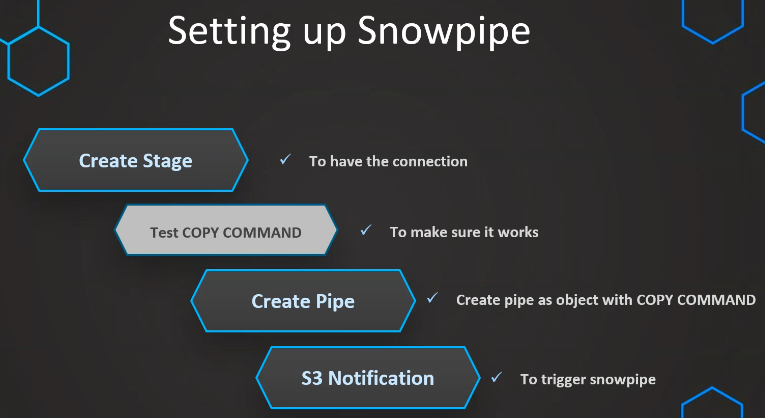
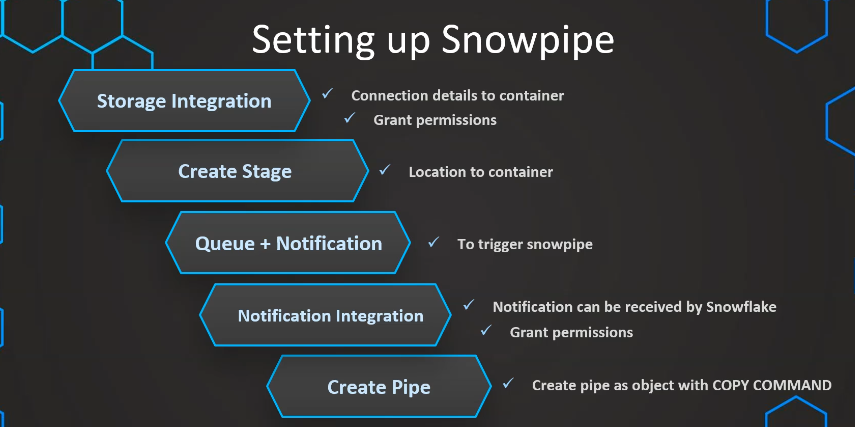
first commit

diff --git a/README.md b/README.md
@@ -1,244 +1,152 @@
-# Setting up Snowpipe with AWS
+# Setting up Snowpipe with Azure
+![alt text](image.png)
+![alt text](image-1.png)
 
 ## Overview
-This document provides a step-by-step guide on how to set up Snowpipe in Snowflake using AWS S3 for continuous data loading. Snowpipe automatically loads data as soon as files appear in the S3 bucket, ideal for scenarios where data must be immediately available for analysis. This guide covers creating stages, testing with COPY commands, creating the pipe, and setting up S3 notifications.
+This document provides a step-by-step guide on how to set up Snowpipe in Snowflake using Azure Blob Storage for continuous data loading. Snowpipe automatically loads data as soon as files appear in the Azure container, ideal for scenarios where data must be immediately available for analysis. This guide covers creating storage accounts, setting up containers, collecting necessary Azure information, configuring Snowflake integration, and granting permissions.
 
 ## Index
-- [What is Snowpipe?](#what-is-snowpipe)
-- [Step 1: Creating the Storage Integration](#step-1-creating-the-storage-integration)
-- [Step 2: Creating Table and File Format](#step-2-creating-table-and-file-format)
-- [Step 3: Creating Stage](#step-3-creating-stage)
-- [Step 4: Creating Pipe](#step-4-creating-pipe)
-- [Step 5: Setting up S3 Event Notification](#step-5-setting-up-s3-event-notification)
-- [Step 6: Testing and Error Handling](#step-6-testing-and-error-handling)
-- [Step 7: Managing Pipes](#step-7-managing-pipes)
+- [Prerequisites](#prerequisites)
+- [Step 1: Creating a Storage Account](#step-1-creating-a-storage-account)
+- [Step 2: Creating and Uploading to Containers](#step-2-creating-and-uploading-to-containers)
+- [Step 3: Collecting Required Azure Information](#step-3-collecting-required-azure-information)
+- [Step 4: Creating Snowflake Integration](#step-4-creating-snowflake-integration)
+- [Step 5: Granting Permissions in Azure](#step-5-granting-permissions-in-azure)
 - [Conclusion](#conclusion)
 
 ---
 
-## What is Snowpipe?
-Snowpipe is a continuous data loading feature in Snowflake that automatically loads files as they appear in an S3 bucket. It is designed for real-time data ingestion and is not intended for batch processing. Snowpipe uses event notifications from S3 to trigger data loading into Snowflake tables.
-
-![alt text](image.png)
-
-![alt text](image-1.png)
+## Prerequisites
+Ensure you have an **Azure account**.
 
 ---
 
-## Step 1: Creating the Storage Integration
+## Step 1: Creating a Storage Account
+1. In the **Search Bar**, type **Storage Account** and select the **+ Create** button.
+2. Enter the following details:
+    - **Resource Group**: Use an existing one or create a new one (e.g., `snowflake`).
+    - **Storage Account Name**: Choose a unique name (e.g., `snowflakeawsgcp`).
+    - **Region**: Select the same region as your Snowflake account.
+    - **Redundancy**: Choose **Locally Redundant Storage (LRS)** for testing purposes.
+3. Click **Review + Create**, verify the details, and select **Create**.
+
+At this point, your Azure Storage Account is successfully created.
+
+---
+
+## Step 2: Creating and Uploading to Containers
+1. Go to **Storage Accounts** and select your newly created storage account.
+2. Navigate to **Data Storage** → **Containers**.
+3. Click **+ Container** and create one container for Snowpipe:
+    - **snowpipecsv** for CSV files
+4. After creation, select the container and click **+ Upload**.
+5. Click **Browse File**, select the files to upload, and click **Upload**.
+
+Your data is now stored and ready for integration with Snowflake.
+
+---
+
+## Step 3: Collecting Required Azure Information
+Before integrating with Snowflake, collect the following details from Azure:
+1. **Tenant ID**:
+    - Search for **Tenant Properties** in the Azure search bar.
+    - Copy the **Tenant ID** from the **Tenant Properties** page.
+2. **Storage Account Name** (e.g., `snowflakeawsgcp`).
+3. **Container Name** (`snowpipecsv`).
+
+---
+
+## Step 4: Creating Snowflake Integration
 ```sql
-CREATE OR REPLACE STORAGE INTEGRATION s3_int
+CREATE OR REPLACE DATABASE SNOWPIPE;
+
+CREATE OR REPLACE STORAGE INTEGRATION azure_snowpipe_integration
   TYPE = EXTERNAL_STAGE
-  STORAGE_PROVIDER = S3
+  STORAGE_PROVIDER = AZURE
   ENABLED = TRUE
-  STORAGE_AWS_ROLE_ARN = 'arn:aws:iam::110991281769:role/snowflake-access-role'
-  STORAGE_ALLOWED_LOCATIONS = ('s3://snowflakeaws1985/csv/', 's3://snowflakeaws1985/json/', 's3://snowflakeaws1985/snowpipe/')
-  COMMENT = 'This an optional comment';
+  AZURE_TENANT_ID = 'dae2c9e3-5d25-4628-a32f-6077ffaede10'
+  STORAGE_ALLOWED_LOCATIONS = ('azure://snowflakeawsgcp.blob.core.windows.net/snowpipecsv');
 ```
-## Describe  in case you havent configure your role
+-- -- Describe integration object to provide access
 ```sql
-DESC INTEGRATION s3_int;
+DESC STORAGE INTEGRATION azure_snowpipe_integration;
 ```
+
+### Granting Access
+- In the Snowflake description output, look for `AZURE_CONSENT_URL`.
+- Copy the **AZURE_CONSENT_URL** and paste it into a new browser window where you are logged into your Azure account to grant authorization.
+- After granting permission, you will receive an **Application ID**. Copy and save this ID for later use.
 
 ---
 
-## Step 2: Creating Table and File Format
-```sql
-CREATE OR REPLACE TABLE OUR_FIRST_DB.PUBLIC.employees (
-  id INT,
-  first_name STRING,
-  last_name STRING,
-  email STRING,
-  location STRING,
-  department STRING);
-```  
-```sql
-CREATE OR REPLACE FILE FORMAT MANAGE_DB.file_formats.csv_fileformat
-  TYPE = CSV
-  FIELD_DELIMITER = ','
-  SKIP_HEADER = 1
-  NULL_IF = ('NULL','null')
-  EMPTY_FIELD_AS_NULL = TRUE;
-```
+## Step 5: Granting Permissions in Azure
+1. Go to **Storage Account** → **Your Container** → **Access Control (IAM)**.
+2. Click on the **+ Add** icon → **Add role assignment**.
+3. In the **Search Bar**, type **Storage Blob Data Reader** and select it.
+4. Click **Next**.
+5. Click on **+ Select Members**.
+6. In the **Search Bar** on the right-side pop-up window, paste the **Application ID** copied from the Azure consent step.
+7. Select the application and click **Continue**.
+
+Permissions are now successfully granted to Snowflake.
+
 
 ---
 
-## Step 3: Creating Stage
-```sql
-CREATE OR REPLACE STAGE MANAGE_DB.external_stages.csv_folder
-  URL = 's3://snowflakeaws1985/csv/snowpipe'
-  STORAGE_INTEGRATION = s3_int
-  FILE_FORMAT = MANAGE_DB.file_formats.csv_fileformat;
+## After Successful Connection: Setting up Queue and Notifications
 
-LIST @MANAGE_DB.external_stages.csv_folder;
-```
+To fully set up Snowpipe, you need to complete two additional steps:
+- **Queue Setup**
+- **Notifications**
 
 ---
 
-## Step 4: Creating Pipe & schema to keep things organized
-
--- Create schema to keep things organized
-```sql
-CREATE OR REPLACE SCHEMA MANAGE_DB.pipes;
-```
-
--- Define pipe// at this stage you should test before creating the pipe to check if everyting work perfectly copy into == select
-```sql
-CREATE OR REPLACE PIPE MANAGE_DB.pipes.employee_pipe
-AUTO_INGEST = TRUE
-AS
-COPY INTO OUR_FIRST_DB.PUBLIC.employees
-FROM @MANAGE_DB.external_stages.csv_folder;
-```  
--- Describe pipe copy the value of notification_channel after this go into step 5 
-```sql
-DESC pipe employee_pipe;
-DESC PIPE MANAGE_DB.pipes.employee_pipe;
-```
--- 
-```sql
-SELECT COUNT(*) FROM OUR_FIRST_DB.PUBLIC.employees;
-```
+## Step 6: Setting up Queue in Azure
+1. Go to **Storage Account** → **Your Container** → **Data Storage** → **Queue**.
+2. Click on the **+ Queue** icon.
+3. **Queue Name**: Enter a unique name and click **OK**.
 
 ---
 
-## Step 5: Setting up S3 Event Notification
-1. Go to **AWS Console** → **S3** → **Bucket** → **Properties**.
-2. Scroll to **Event Notifications** and click **Create Event Notification**.
-3. **Event Name**: Unique-name
-4. **Prefix**: `csv/snowpipe`
-5. **Suffix**: (Optional)
-6. **Event Type**: Select **All Object Create Events**
-7. **Destination**: Select **SQS queue**
-8. **Enter SQS queue ARN**: Paste the value from Snowflake's Notification Channel
-9. Click **Save**.
+## Step 7: Configuring Event Notifications
+1. In the left-hand side menu, look for **Events** (with a yellow lightning bolt icon) and select it.
+2. Click on **+ Event Subscription**.
+3. Enter the following details:
+    - **Name**: Unique name for the event
+    - **Event Schema**: Leave as default
+    - **System Topic**: Same as the name
+    - **Filter Events Type**: Select **Only Blob Created**
+    - **End Point Type**: Choose **Storage Queue**
+4. Click **Configure End Point**.
+5. In the right-side pop-up window:
+    - **Storage Account**: Select your storage account
+    - **Queue**: Select the queue previously created
+6. Click **OK**.
+
+**Note:** You may encounter an error, but don't worry. Continue with the following steps.
 
 ---
 
-## Step 6: Testing and Error Handling
+## Step 8: Registering Event Grid in Azure
+1. Copy your Azure URL and paste it into a new browser window:  
+   `https://portal.azure.com/?quickstart=true#home`
+2. In the **Search Bar**, type **Subscription** and select your subscription.
+3. In **Settings**, go to **Resource Providers**.
+4. In the **Search Bar**, type **Event**.
+5. Select **Microsoft.EventGrid**.
+6. In the upper left-hand side, click **Register**.
 
--- Create file format object field_delimiter = '|' TO CREATE AND  ERROR IN DATA 3
-
-```sql
-CREATE OR REPLACE file format MANAGE_DB.file_formats.csv_fileformat
-    type = csv
-    field_delimiter = ','
-    skip_header = 1
-    null_if = ('NULL','null')
-    empty_field_as_null = TRUE;
-``` 
-```sql   
-SELECT COUNT(*) FROM OUR_FIRST_DB.PUBLIC.employees ; 
-``` 
-```sql
-ALTER PIPE employee_pipe refresh;
-```
-
--- Validate pipe is actually working
-```sql
-SELECT SYSTEM$PIPE_STATUS('MANAGE_DB.pipes.employee_pipe');
-```
--- Snowpipe error message
-```sql
-SELECT * FROM TABLE(VALIDATE_PIPE_LOAD(
-  PIPE_NAME => 'MANAGE_DB.pipes.employee_pipe',
-  START_TIME => DATEADD(HOUR,-2,CURRENT_TIMESTAMP())));
-```
-
---COPY command history from table to see error massage
-
-```sql
-SELECT * FROM TABLE (INFORMATION_SCHEMA.COPY_HISTORY(
-  TABLE_NAME  =>  'OUR_FIRST_DB.PUBLIC.EMPLOYEES',
-  START_TIME => DATEADD(HOUR,-2,CURRENT_TIMESTAMP())));
-```
-
----
-
-## Step 7: Managing Pipes
-```sql
--- SHOW  ALL PIPES IN A LIST
-SHOW PIPES;
--- SEARCHING FOR EMPLOYEES USING WILDCARDS
-SHOW PIPES LIKE '%employee%';
--- SEARCHING FOR PIPE IN A UNIQUE DATABASE
-SHOW PIPES IN DATABASE MANAGE_DB;
--- SEARCHING FOR SCHEMA 
-SHOW PIPES IN SCHEMA MANAGE_DB.pipes;
--- ALSO COMBINING THE SEARCHING METHODS
-SHOW PIPES like '%employee%' in Database MANAGE_DB;
-```
-## Changing pipe (alter stage or file format) --
-```sql
--- Preparation table first
-CREATE OR REPLACE TABLE OUR_FIRST_DB.PUBLIC.employees2 (
-  id INT,
-  first_name STRING,
-  last_name STRING,
-  email STRING,
-  location STRING,
-  department STRING
-  );
-```  
--- Pause pipe// BASE PRACTICES PAUSE
-```sql
-ALTER PIPE MANAGE_DB.pipes.employee_pipe SET PIPE_EXECUTION_PAUSED = TRUE;
-```
-
--- Verify pipe is paused and has pendingFileCount 0 
-```sql
-SELECT SYSTEM$PIPE_STATUS('MANAGE_DB.pipes.employee_pipe');
-```
-
-
--- Recreate the pipe to change the COPY statement in the definition
-
-```sql
-CREATE OR REPLACE pipe MANAGE_DB.pipes.employee_pipe
-auto_ingest = TRUE
-AS
-COPY INTO OUR_FIRST_DB.PUBLIC.employees2
-FROM @MANAGE_DB.external_stages.csv_folder ;
-```
-```sql
-ALTER PIPE  MANAGE_DB.pipes.employee_pipe refresh;
-```
-
--- List files in stage
-
-```sql
-LIST @MANAGE_DB.external_stages.csv_folder ;
-```
-```sql
-SELECT * FROM OUR_FIRST_DB.PUBLIC.employees2;
-```
-
--- Reload files manually that where aleady in the bucket
-```sql
-COPY INTO OUR_FIRST_DB.PUBLIC.employees2
-FROM @MANAGE_DB.external_stages.csv_folder;  
-```
-
-
--- Resume pipe
-```sql
-ALTER PIPE MANAGE_DB.pipes.employee_pipe SET PIPE_EXECUTION_PAUSED = false;
-```
-
--- Verify pipe is running again
-```sql
-SELECT SYSTEM$PIPE_STATUS('MANAGE_DB.pipes.employee_pipe') ;
-```
-
+Once registered, go back to the **Event Subscription** window, and the error should be resolved.
 
 ---
 
 ## Conclusion
 You have now successfully:
-- Created a storage integration for S3
-- Configured Snowpipe with S3 event notifications
-- Created and tested the pipe for auto-ingestion
-- Managed and monitored Snowpipe status
+- Created an Azure Storage Account and container for Snowpipe
+- Uploaded data to the Azure container
+- Configured Snowflake integration with Azure
+- Granted necessary permissions in Azure
 
-Your data is now continuously loaded into Snowflake using Snowpipe.
+Your data is now ready to be ingested into Snowflake using Snowpipe.
+
 
